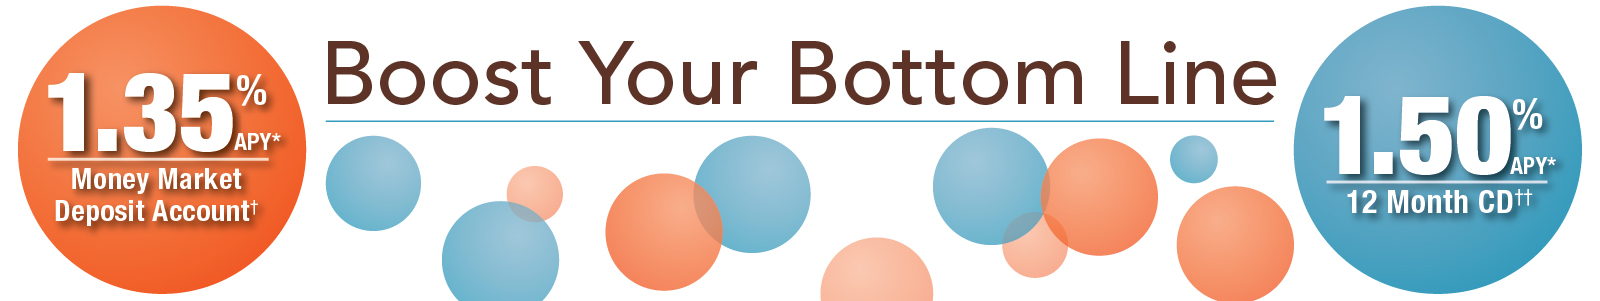
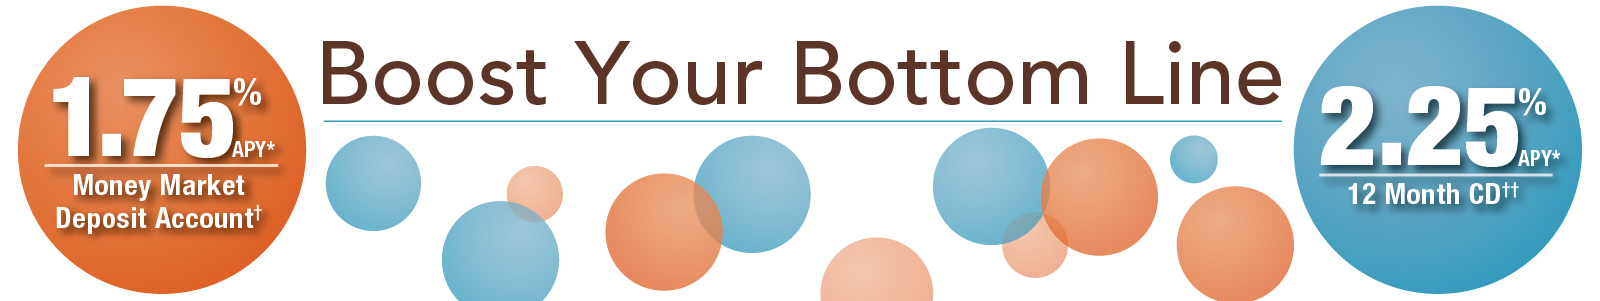
Updates for new Money Market and CD Promotion

Changed region(s): [[0.0312, 0.1196, 1.0, 0.8073]]

diff --git a/savings.html b/savings.html
@@ -131,14 +131,14 @@
                 <a class="anchor text-center" name="moneymarket"><h2>Money Market Accounts</h2></a>
               </div>
             </div><!-- row -->
-            <!-- <div class="row spacer">
+            <div class="row spacer">
               <div class="col-md-12">
                 <img class="picture" src="img/cib_boost_1600x300.jpg" alt="Money Market Accounts">
               </div>
             </div>--><!-- row -->
-            <!-- <div class="row spacer">
-	        	 <p class="small para-margin"><sup>*</sup>Annual Percentage Yield (APY) <sup>†</sup>Money Market Deposit Account: Promotional rate of 1.35% APY on balances up to $249,999.99 and .50% APY on balances $250,000.00 and over for new accounts effective as of 11/13/17 and guaranteed for the first 182 days after account opening. Promotional rate offered on $10,000 or more of new money not currently on deposit within last 30 days with CIBM Bank. Minimum opening deposit of $10,000.00.  After 182 Day introductory period, the account will be converted to the Personal or Business Money Market. The interest rate on your account is subject to change at any time. As of 11/13/17 Personal Money Market balances of $0.00-$9,999.99 (.08% APY); $10,000.00-$24,999.99 (.10% APY); $25,000.00-$49,999.99 (.13% APY); $50,000.00-$99,999.99 (.14% APY); $100,000.00 and above (.15% APY). Monthly fee $2.00 per debit if $1,000.00 minimum balance not maintained. As of 11/13/17 Business Money Market balances of $0.00-$9,999.99 (.08% APY); $10,000.00-$24,999.99 (.10% APY); $25,000.00-$49,999.99 (.13% APY); $50,000.00-$99,999.99 (.14% APY); $100,000.00 and above (.15% APY). Monthly fee $15.00 service charge if $5,000.00 minimum balance not maintained. Fees may reduce earnings. Accounts closed within 6 months of opening date subject to a $25.00 closing fee. <sup>††</sup>12 Month Certificate of Deposit & IRA: Promotional rate of 1.50% (APY) effective as of 11/13/17 and guaranteed for the term of the account. Offer limited to $10,000 or more of new money not currently on deposit within last 30 days with CIBM Bank. Minimum opening deposit of $2,500.00 and a maximum of $250,000.00. Withdrawals made prior to maturity may be subject to an early withdrawal penalty. Offer not available in combination with any other offer.</p>
-           </div>--><!-- row -->
+            <div class="row spacer">
+              <p class="small para-margin"><sup>*</sup>Annual Percentage Yield (APY) <sup>†</sup>Money Market Deposit Account: Promotional rate of 1.75% APY on balances up to $249,999.99 and .50% APY on balances $250,000.00 and over for new accounts effective as of 05/29/18 and guaranteed for the first 182 days after account opening. Promotional rate offered on $10,000.00 or more of new money not currently on deposit within last 30 days with CIBM Bank. Minimum opening deposit of $10,000.00. After 182 Day introductory period, the account will be converted to the Personal or Business Money Market. The interest rate is subject to change at any time. As of 05/22/18 Personal Money Market balances of $0.00-$9,999.99 (.08% APY); $10,000.00-$24,999.99 (.10% APY); $25,000.00-$49,999.99 (.13% APY); $50,000.00-$99,999.99 (.14% APY); $100,000.00 and above (.15% APY). Monthly fee $2.00 per debit if $1,000.00 minimum balance not maintained. As of 05/22/18 Business Money Market balances of $0.00-$9,999.99 (.08% APY); $10,000.00-$24,999.99 (.10% APY); $25,000.00-$49,999.99 (.13% APY); $50,000.00-$99,999.99 (.14% APY); $100,000.00 and above (.15% APY). Monthly fee $15.00 service charge if $5,000.00 minimum balance not maintained. Fees may reduce earnings. Accounts closed within 6 months of opening date subject to a $25.00 closing fee.  <sup>††</sup>12 Month Certificate of Deposit & IRA: Promotional rate of 2.25% (APY) effective as of 05/29/18 and guaranteed for the term of the account. Offer limited to $10,000.00 or more of new money not currently on deposit within last 30 days with CIBM Bank. Minimum opening deposit of $2,500.00 and a maximum of $250,000.00. Withdrawals made prior to maturity may be subject to an early withdrawal penalty. Offer not available in combination with any other offer.</p>
+            </div><!-- row -->
             <div class="row spacer">
               <div class="col-md-6">
                 <h2 class="anchor">Personal Money Market Accounts</h2>
@@ -188,14 +188,14 @@
                 <a class="anchor text-center" name="cd"><h2>Certificates of Deposit</h2></a>
               </div>
             </div><!-- row -->
-            <div class="row spacer">
+            <!-- <div class="row spacer">
               <div class="col-md-12">
                 <img src="img/boostcd_1600.jpg" alt="CD Offer" class="picture">
               </div>
-            </div><!-- row -->
-            <div class="row spacer">
+            </div> --><!-- row -->
+            <!-- <div class="row spacer">
               <p class="small para-margin"><sup>*</sup>Annual Percentage Yield (APY) <sup>†</sup>Promotional rates effective as of 5/15/18 and guaranteed for the term of the account. Offer limited to $10,000.00 or more of new money not currently on deposit within last 30 days with CIBM Bank. Minimum opening deposit of $2,500.00 and a maximum of $250,000.00. Withdrawals made prior to maturity may be subject to an early withdrawal penalty. Offer not available in combination with any other offer.</p>
-            </div>
+            </div> -->
             <div class="row spacer">
               <div class="col-md-6">
                 <p>Our certificates of deposit earn a competitive rate while providing the safety of FDIC insurance.</p>
